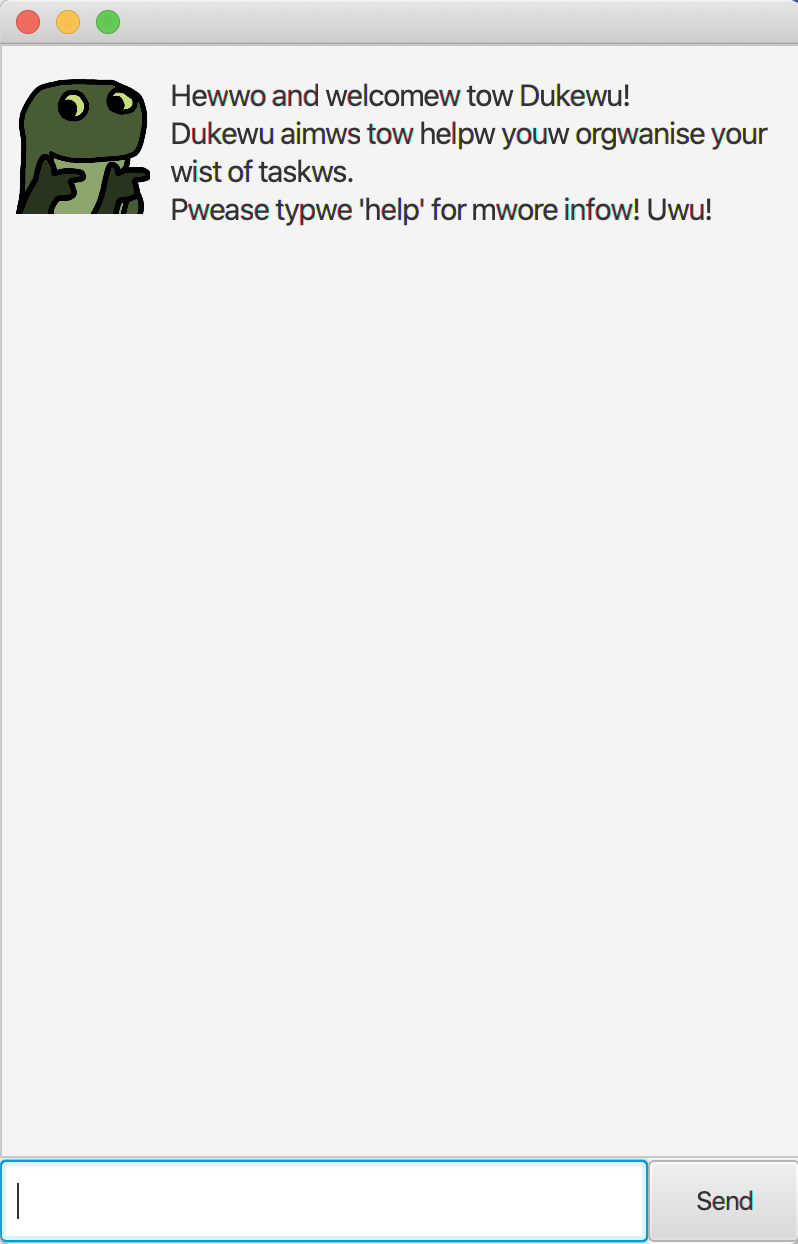
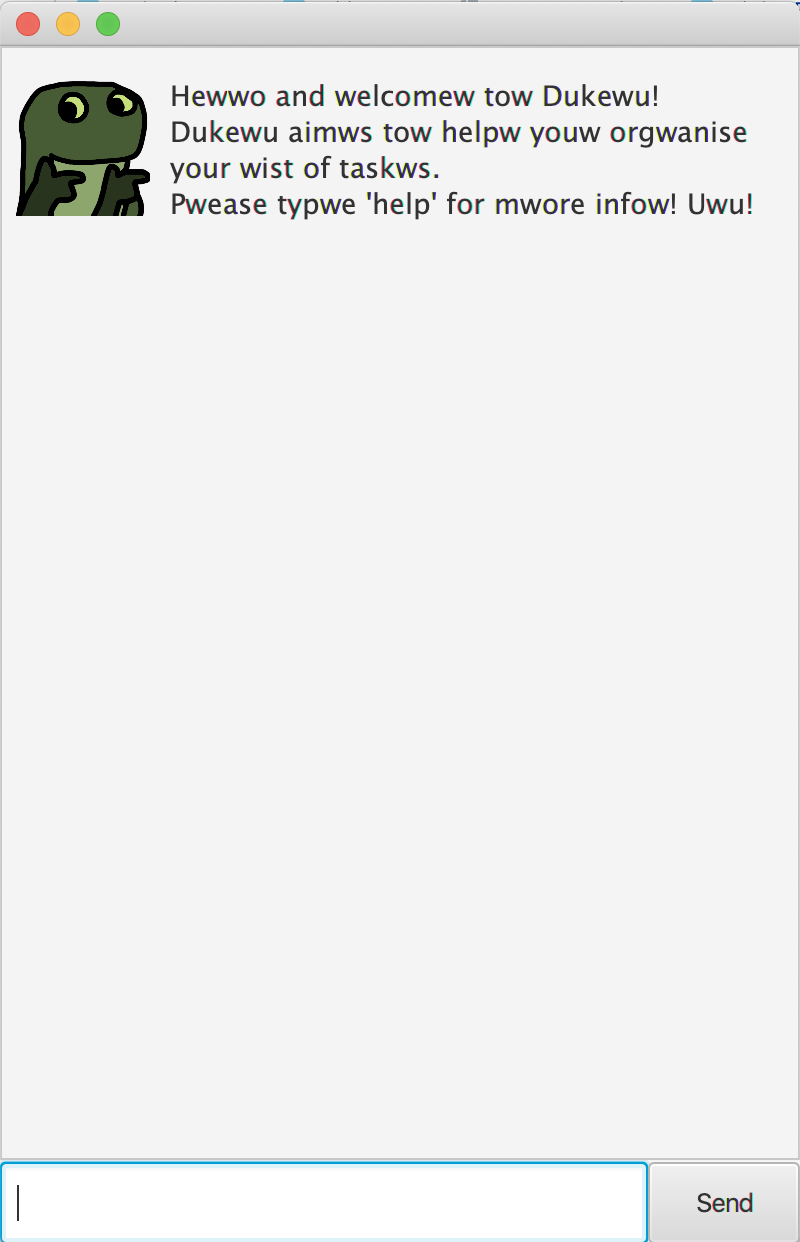
Update docs/README.md

Changed region(s): [[0.0, 0.0, 1.0, 1.0], [0.0301, 0.1224, 0.1805, 0.1836]]

diff --git a/src/main/java/duke/TaskList.java b/src/main/java/duke/TaskList.java
@@ -241,7 +241,7 @@ public class TaskList {
             Task temp = tasks.get(i);
             if (temp.getTaskString().toLowerCase().contains(keyword.toLowerCase())) {
                 isFound = true;
-                strBuilder.append(i).append(". ").append(temp.toString());
+                strBuilder.append(i + 1).append(". ").append(temp.toString());
                 if (i < counter - 1) {
                     strBuilder.append('\n');
                 }

diff --git a/src/main/java/duke/gui/DialogBox.java b/src/main/java/duke/gui/DialogBox.java
@@ -39,7 +39,7 @@ public class DialogBox extends HBox {
             e.printStackTrace();
         }
 
-        dialog.setFont(new Font("Luciana Grande", 15));
+        dialog.setFont(new Font("Lucida Grande", 14));
         dialog.setText(text);
         displayPicture.setImage(img);
         dialog.setPadding(new Insets(0, 0, 0, 10));

diff --git a/docs/README.md b/docs/README.md
@@ -3,14 +3,18 @@
 > qwick, hand me the defibwiwatow!!
 > please. turn off my [redacted] life support
 >                              - You after you use Dukuwu [(source)](https://i.redd.it/qcsnneo5fyh01.jpg)
-By: `Ruth Poh` Since: `Sep 2021`
+
+By: `Ruth Poh` Since: `September 2021`
+
 
 ## 1. Introduction
+***
 Dukewu is a modified version of the Personal Assistant Chatbot Duke, complete with owo language support. 
-Dukewu can help you **manage your tasks** with an easy-to-read Graphical User Interface (GUI) that operates 
-using text commands.
+Dukewu can help you **manage your tasks** with an **easy-to-read Graphical User Interface (GUI)** that 
+operates using **text commands**.
 
 ## 2. Quick Start
+***
 * Ensure you have Java `11` or above installed in your Computer.
 * Download the latest `duke.jar` [(here)](https://github.com/ruthpohrp/ip/releases).
 * Copy the file to the folder you want to use as the home folder for your Dukewu.
@@ -18,7 +22,23 @@ using text commands.
 
 ![Quickstart](Quickstart.png?raw=true)
 
-## 3. Command Features
+## 3. Command Summary
+***
+| Summary | Command | Example |
+|---------| ------- |---------|
+|**Help:**|`help`|-|
+|**List:**|`list`|-|
+|**Todo:**|`todo TASK`|`todo finish my homework`|
+|**Deadline:**|`deadline TASK /by DATE [TIME]`|`deadline Finish my homework /by 2021-09-16`
+|**Event:**|`event TASK /at DATE [TIME]`|`event Christmas party at my neighbour's /at 2021-12-25`
+|**Find:**|`find KEYWORDS [MORE KEYWORDS]`|`find catboys`
+|**Delete:**|`delete NUMBER`|`delete 5`
+|**Done:**|`done NUMBER`|`done 5`|
+|**Clearall:**|`clearall` followed by `y`|-|
+|**Exit:**|`bye`|-|
+
+## 4. Command Features
+***
 **Command Format**
 * Words in `UPPER_CASE` are the parameters to be supplied by the user e.g. in `todo TASK`, `TASK` is a 
   parameter which can be used as `todo TASK`.
@@ -27,17 +47,21 @@ using text commands.
   DATE TIME`.
 * Parameters must be input in the order specified.
 
-### 3.1 Viewing help: `help`
+### 4.1 Viewing help: `help`
 Displays a list of commands that Dukewu supports.
 
 Format: `help`
 
-### 3.2 Viewing the task list: `list`
+![Help](Help.png?raw=true)
+
+### 4.2 Viewing the task list: `list`
 Displays your list of tasks.
 
 Format: `list`
 
-### 3.3 Creating a Todo task
+![List](List.png?raw=true)
+
+### 4.3 Creating a Todo task
 Adds a task with no deadline to the task list.
 
 Format: `todo TASK`
@@ -46,8 +70,10 @@ Examples:
 * `todo finish my homework`
 * `todo prepare a burial so my teammates can let me down one last time`
 
+![Todo](Todo.png?raw=true)
 
-### 3.4 Creating a Deadline task
+
+### 4.4 Creating a Deadline task
 Adds a task with a deadline to the task list.
 
 Format: `deadline TASK /by DATE [TIME]`
@@ -58,7 +84,9 @@ Examples:
 * `deadline Finish my homework /by 2021-09-16`
 * `deadline Finish and submit my project /by 2021-09-17 23:59`
 
-### 3.5 Creating a Event task
+![Deadline](Deadline.png?raw=true)
+
+### 4.5 Creating a Event task
 Adds a task with a time that it occurs to the task list.
 
 Format: `event TASK /at DATE [TIME]`
@@ -69,7 +97,9 @@ Examples:
 * `event Christmas party at my neighbour's /at 2021-12-25`
 * `event Grab Delivery collection /at 2021-12-25 23:59`
 
-### 3.6 Finding entries: `find KEYWORD [MORE KEYWORDS]`
+![Event](Event.png?raw=true)
+
+### 4.6 Finding entries: `find KEYWORD [MORE KEYWORDS]`
 Finds entries with certain keywords in them.
 
 Format: `find KEYWORDS`
@@ -78,14 +108,16 @@ Format: `find KEYWORDS`
 * Only the task description is searched, not date or time.
 
 Examples:
-* find catboys
+* `find catboys`
   
   Returns `feed my catboys` and `buy clothes for my catboys`
-* find cat boys
+* `find cat boys`
   
   Returns `feed my cat boys` but not `feed my catboys` 
 
-### 3.7 Deleting entries: `delete`
+![Find](Find.png?raw=true)
+
+### 4.7 Deleting entries: `delete`
 Deletes task number `NUMBER` on the task list.
 
 Format: `delete NUMBER`
@@ -93,13 +125,16 @@ Format: `delete NUMBER`
 * Entry must be a valid entry in the task list i.e. Trying to `delete 11` when there are only 10 entries 
   in the list will result in an error.
 > 💡 **NOTE:** After deletion, task entries listed below the deleted task will shift upwards.
+> ⚠ **WARNING:** This command cannot be reversed. Be careful when using this command!
 
 Examples:
 * `delete 3`
   
     Deletes the 3rd entry in the task list.
 
-### 3.8 Marking entries as done: `done`
+![Delete](Delete.png?raw=true)
+
+### 4.8 Marking entries as done: `done`
 Marks a task in the task list as done.
 
 Format: `done NUMBER`
@@ -112,46 +147,38 @@ Examples:
   
   Marks the 4th entry in the task list as done.
 
-### 3.9 Clearing all entries: `clearall`
+![Done](Done.png?raw=true)
+
+### 4.9 Clearing all entries: `clearall`
 Clears all entries from the task list. Asks for confirmation before deletion.
 > ⚠ **WARNING:** This command cannot be reversed. Be careful when using this command!
 
 Format: `clearall` followed by `y`
 
-### 3.10 Exiting the program: `bye`
+![Clearall](Clearall.png?raw=true)
+
+### 4.10 Exiting the program: `bye`
 Exits the program. 
 > ⚠ **WARNING:** Do not attempt to input anything into the GUI after inputting this command. Bad things 
 > will happen!
 
 Format: `bye`
 
-### 3.11 Saving the data
+![Bye](Bye.png?raw=true)
+
+### 4.11 Saving the data
 Task data is automatically saved into the hard disk after any command that changes the data. There is no 
 need to save manually. 
 
-## 4.0 FAQ
-**Q:** How do I transfer my data to another Computer?
+## 5. FAQ
+***
+**Q:** How do I transfer my data to another Computer?<br>
 **A:** Follow the Quickstart steps and download the duke.jar into the other computer. Go to your former 
-computer and go to your source folder`out > artifacts> mainjar > data`. Open the `tasks.txt` 
+computer and go to `source folder > out > artifacts > mainjar > data`. Open the `tasks.txt` 
 file. Copy and paste its contents onto the same file in the other computer.
 
-**Q** Will there be updates in the future?
-**A** Sadly, I do not plan to have any big updates in the future. I'm trapped in homework hell.
+**Q:** Will there be updates in the future?<br>
+**A:** Sadly, I do not plan to have any big updates in the future. I'm trapped in homework hell.
 
-**Q** What is the secret to acing CS2103T? 
-**A** ...I would like to know that too.
-
-## 5.0 Command Summary
-
-| Summary | Command | Example |
-|---------| ------- |---------|
-|**Help:**|`help`|-|
-|**List:**|`list`|-|
-|**Todo:**|`todo TASK`|`todo finish my homework`|
-|**Deadline:**|`deadline TASK /by DATE [TIME]`|`deadline Finish my homework /by 2021-09-16`
-|**Event:**|`event TASK /at DATE [TIME]`|`event Christmas party at my neighbour's /at 2021-12-25`
-|**Find:**|`find KEYWORDS [MORE KEYWORDS]`|`find catboys`
-|**Delete:**|`delete NUMBER`|`delete 5` 
-|**Done:**|`done NUMBER`|`done 5`|
-|**Clearall:**|`clearall` followed by `y`|-|
-|**Exit:**|`bye`|-|
+**Q:** What is the secret to acing CS2103T?<br>
+**A:** ...I would like to know that too.
